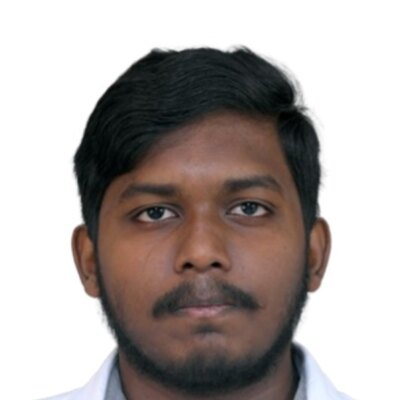
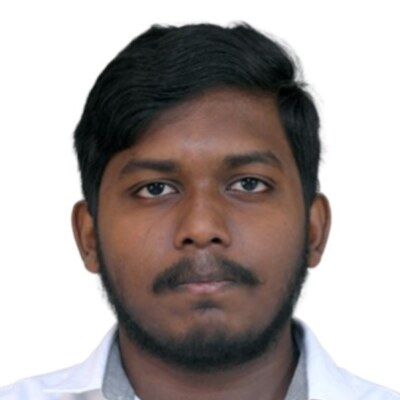
People: larger team photos; recentre Mohanraj's portrait

diff --git a/about.html b/about.html
@@ -236,8 +236,8 @@
       #member-groups .member-grid { grid-template-columns: repeat(auto-fit, minmax(250px, 290px)); justify-content: center; }
       .member-card { text-align: center; padding: 26px 22px 22px; display: flex; flex-direction: column; align-items: center; }
       .avatar {
-        flex: 0 0 auto; width: 118px; height: 118px; border-radius: 50%; display: grid; place-items: center; margin-bottom: 14px;
-        background: var(--primary); color: var(--highlight); font-weight: 700; font-size: 34px; letter-spacing: .5px;
+        flex: 0 0 auto; width: 156px; height: 156px; border-radius: 50%; display: grid; place-items: center; margin-bottom: 16px;
+        background: var(--primary); color: var(--highlight); font-weight: 700; font-size: 44px; letter-spacing: .5px;
         object-fit: cover; border: 3px solid #fff; box-shadow: 0 0 0 2px #e6ebf2;
       }
       .member-badge { margin-top: 10px; font-size: 12px; font-weight: 700; color: #7a5b00; background: rgba(250,204,21,.25); border: 1px solid var(--highlight); padding: 4px 11px; border-radius: 999px; }
